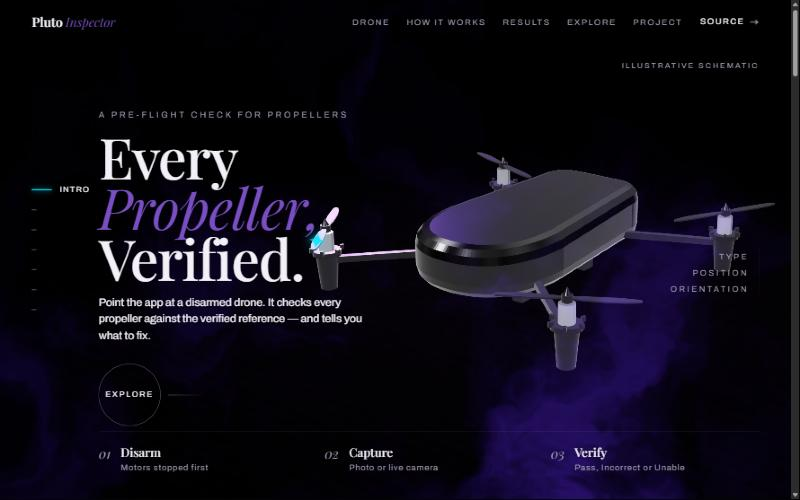
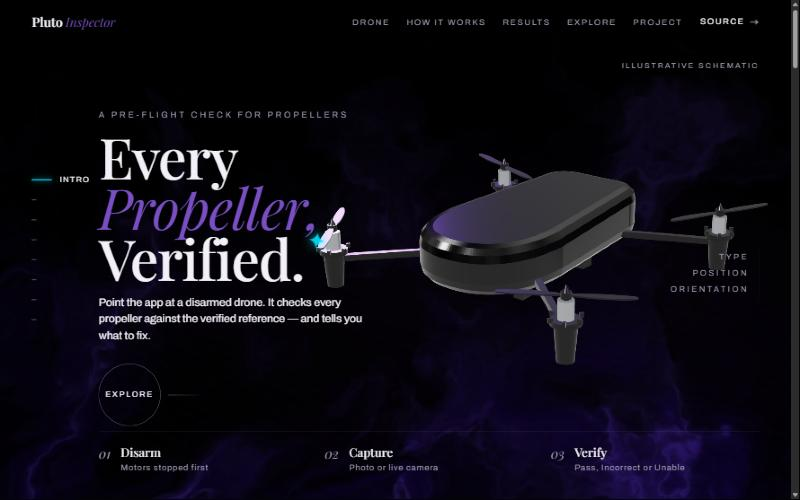
feat(website): smoke-machine fog, cigar-like strands, steerable flight scene
Shader stage fog in deep purple (domain-warped noise, thin ridged strands,
floor-weighted, clearer centre), drawn behind the drone. New labelled
"Made to fly." scene: lift-off, spinning propellers with blur discs, rotor
downwash swirling the fog, steered by mouse or arrow keys. Darker accent text.

diff --git a/apps/website/src/viewer/viewer.ts b/apps/website/src/viewer/viewer.ts
@@ -88,6 +88,14 @@ export class DroneViewer {
   private storyGroup = new THREE.Group();
   private userGroup = new THREE.Group();
   private holder = new THREE.Group();
+  /** Lifts and banks the drone for the flight illustration; the floor stays put. */
+  private flyGroup = new THREE.Group();
+  private floorGroup = new THREE.Group();
+  private shadowMat?: THREE.MeshBasicMaterial;
+  private flight = { cur: 0, goal: 0 };
+  /** Steering target for the flight illustration, -1..1 on each axis. */
+  private steer = { gx: 0, gy: 0, x: 0, y: 0, z: 0, lift: 0, prevLat: 0 };
+  private spinAngle = 0;
   private asset: DroneAsset | null = null;
   private pmrem?: THREE.PMREMGenerator;
   private envTex?: THREE.Texture;
@@ -169,7 +177,8 @@ export class DroneViewer {
     this.scene.add(this.key, this.rim, this.rim2, this.hemi);
     this.scene.add(this.storyGroup);
     this.storyGroup.add(this.userGroup);
-    this.userGroup.add(this.holder);
+    this.userGroup.add(this.flyGroup, this.floorGroup);
+    this.flyGroup.add(this.holder);
 
     const asset = await this.opts.createAsset();
     if (this.disposed) {
@@ -247,6 +256,8 @@ export class DroneViewer {
     const s = 1 / sphere.radius;
     this.holder.scale.setScalar(s);
     this.holder.position.set(-sphere.center.x * s, -sphere.center.y * s, -sphere.center.z * s);
+    this.floorGroup.position.copy(this.holder.position);
+    this.floorGroup.scale.copy(this.holder.scale);
     this.fitDistance = 1.08 / Math.sin(THREE.MathUtils.degToRad(FOV / 2));
   }
 
@@ -257,14 +268,12 @@ export class DroneViewer {
       [1, 'rgba(0,0,0,0)'],
     ]);
     this.textures.push(shadowTex);
-    const shadow = new THREE.Mesh(
-      new THREE.PlaneGeometry(1.9, 1.8),
-      new THREE.MeshBasicMaterial({ map: shadowTex, transparent: true, depthWrite: false }),
-    );
+    this.shadowMat = new THREE.MeshBasicMaterial({ map: shadowTex, transparent: true, depthWrite: false });
+    const shadow = new THREE.Mesh(new THREE.PlaneGeometry(1.9, 1.8), this.shadowMat);
     shadow.rotation.x = -Math.PI / 2;
     shadow.position.y = 0.002;
     shadow.renderOrder = -1;
-    this.asset!.root.parent!.add(shadow);
+    this.floorGroup.add(shadow);
 
     if (this.opts.ground === 'dark') {
       const poolTex = radialTexture([
@@ -280,7 +289,7 @@ export class DroneViewer {
       pool.rotation.x = -Math.PI / 2;
       pool.position.y = 0.001;
       pool.renderOrder = -2;
-      this.asset!.root.parent!.add(pool);
+      this.floorGroup.add(pool);
 
       this.addFog();
 
@@ -310,7 +319,7 @@ export class DroneViewer {
       );
       beam.position.y = 2.25;
       beam.renderOrder = -3;
-      this.asset!.root.parent!.add(beam);
+      this.floorGroup.add(beam);
     }
   }
 
@@ -324,8 +333,10 @@ export class DroneViewer {
       uniforms: {
         uTime: { value: 0 },
         uColor: { value: new THREE.Color(0x2b0b55) },
-        uStrength: { value: 3.4 },
+        uStrength: { value: 2.6 },
         uAspect: { value: 1 },
+        uHole: { value: new THREE.Vector2(0.5, 0.4) },
+        uStir: { value: 0 },
       },
       vertexShader: /* glsl */ `
         varying vec2 vUv;
@@ -338,6 +349,8 @@ export class DroneViewer {
         uniform vec3 uColor;
         uniform float uStrength;
         uniform float uAspect;
+        uniform vec2 uHole;
+        uniform float uStir;
         varying vec2 vUv;
         float hash(vec2 p) { return fract(sin(dot(p, vec2(127.1, 311.7))) * 43758.5453); }
         float noise(vec2 p) {
@@ -352,18 +365,36 @@ export class DroneViewer {
           return v;
         }
         void main() {
-          vec2 p = vec2(vUv.x * uAspect, vUv.y) * 2.0;
-          float t = uTime * 0.065;
+          // Rotor wash: smoke near the drone is pushed outward and swirled.
+          vec2 dv = (vUv - uHole) * vec2(uAspect, 1.0);
+          float rd = length(dv);
+          float infl = 0.35 * uStir * exp(-rd * rd * 6.0);
+          float ang = infl * (1.6 + 0.5 * sin(uTime * 0.8));
+          mat2 rot = mat2(cos(ang), -sin(ang), sin(ang), cos(ang));
+          vec2 dw = rot * dv + normalize(dv + 1e-4) * infl * 0.12;
+          vec2 uv = dw / vec2(uAspect, 1.0) + uHole;
+          vec2 p = vec2(uv.x * uAspect, uv.y) * 2.0;
+          float t = uTime * 0.065 * (1.0 + infl * 2.0);
           vec2 q = vec2(fbm(p + vec2(0.0, -t)), fbm(p + vec2(5.2, 1.3) - t * 0.7));
           vec2 r = vec2(fbm(p + 3.0 * q + vec2(1.7, 9.2) + t * 0.5), fbm(p + 3.0 * q + vec2(8.3, 2.8) - t * 0.4));
           float f = fbm(p + 2.6 * r + vec2(t * 0.6, -t));
           // Thickest at the floor, but a thinner haze still reaches the top of the frame.
-          float floorMask = mix(0.55, 1.0, smoothstep(1.0, 0.0, vUv.y));
+          float floorMask = mix(0.2, 1.0, smoothstep(0.9, 0.0, vUv.y));
+          // Keep the middle of the frame clearer so smoke frames the content instead of covering it.
+          floorMask *= mix(0.55, 1.0, smoothstep(0.12, 0.5, abs(vUv.x - 0.5)) + smoothstep(0.45, 0.0, vUv.y));
           float d = pow(smoothstep(0.28, 0.95, f) * floorMask, 1.3);
-          vec3 col = uColor * d * uStrength + vec3(0.32, 0.2, 0.55) * pow(d, 3.0) * 0.12 * uStrength;
+          // Cigar-like strands: thin ridged filaments, stretched upward, curling in the same flow.
+          float wisp = fbm(vec2(p.x * 1.5, p.y * 0.75) + 2.4 * r + vec2(0.0, -t * 1.6));
+          float strand = pow(1.0 - abs(2.0 * wisp - 1.0), 10.0);
+          float wispMask = mix(0.35, 1.0, smoothstep(1.0, 0.0, vUv.y)) * smoothstep(0.38, 0.7, f);
+          d = d * 0.85 + strand * wispMask * 0.35;
+          // Downwash clears a hollow under the rotors with a brighter churned rim.
+          d *= 1.0 - 0.45 * uStir * exp(-rd * rd * 26.0);
+          d += uStir * 0.18 * f * exp(-pow((rd - 0.18) * 10.0, 2.0));
+          vec3 col = uColor * d * uStrength + vec3(0.36, 0.26, 0.58) * strand * wispMask * 0.1 * uStrength;
           gl_FragColor = vec4(col, 1.0);
         }`,
-      transparent: true,
+      transparent: false,
       depthWrite: false,
       depthTest: false,
       blending: THREE.AdditiveBlending,
@@ -460,6 +491,20 @@ export class DroneViewer {
       if (Math.abs(deg) < 360) this.yaw += angle;
     } else this.turn = { from: this.yaw, start: performance.now(), dur, angle };
     this.touch();
+  }
+
+  /** Flight illustration on/off: lift-off, hover, spinning propellers and rotor wash in the fog. */
+  setFlight(on: number) {
+    this.flight.goal = on;
+    if (this.opts.reducedMotion) this.flight.cur = on;
+    this.kick();
+  }
+
+  /** Steer the flying drone toward a screen direction (-1..1, +x right, +y up). */
+  setSteer(x: number, y: number) {
+    this.steer.gx = Math.max(-1, Math.min(1, x));
+    this.steer.gy = Math.max(-1, Math.min(1, y));
+    this.kick();
   }
 
   /** Move the model within the frame (fractions of width/height; +x right, +y up). */
@@ -671,10 +716,43 @@ export class DroneViewer {
     this.storyGroup.position.y = c.lift + Math.sin(t * 0.9) * 0.008 * this.idle;
     // Key light glides slowly so reflections sweep across the gloss.
     if (!rm) this.key.position.set(Math.cos(t * 0.18) * 4.5, 5, Math.sin(t * 0.18) * 4.5);
+    // Flight illustration: lift, hover, bank, spin, rotor wash.
+    const fl = this.flight;
+    fl.cur = rm ? fl.goal : damp(fl.cur, fl.goal, 1.3, dt);
+    const k = fl.cur;
+    // Steering: follow the target across the screen plane, bank into the turn.
+    const st = this.steer;
+    const right = new THREE.Vector3(1, 0, 0).applyQuaternion(this.camera.quaternion);
+    right.y = 0;
+    right.normalize();
+    const reach = 1.15 * k;
+    const sr = rm ? 1 : 1 - Math.exp(-dt * 2.2);
+    st.x += (right.x * st.gx * reach - st.x) * sr;
+    st.z += (right.z * st.gx * reach - st.z) * sr;
+    st.lift += (st.gy * 0.5 * k - st.lift) * sr;
+    const lat = st.x * right.x + st.z * right.z;
+    const vLat = (lat - st.prevLat) / dt;
+    st.prevLat = lat;
+    this.flyGroup.position.set(st.x, k * (0.42 + (rm ? 0 : Math.sin(t * 1.2) * 0.04)) + st.lift, st.z);
+    const bank = THREE.MathUtils.clamp(-vLat * 0.18, -0.3, 0.3);
+    this.flyGroup.rotation.z = rm ? 0 : k * (Math.sin(t * 0.6) * 0.05) + bank;
+    this.flyGroup.rotation.x = rm ? 0 : k * Math.sin(t * 0.8 + 1) * 0.05;
+    if (this.asset?.setSpin) {
+      if (!rm) this.spinAngle = (this.spinAngle + dt * 32 * k * k) % (Math.PI * 2);
+      this.asset.setSpin(this.spinAngle, rm ? 0 : k);
+    }
+    if (this.shadowMat) this.shadowMat.opacity = 1 - 0.55 * k;
+
     if (this.fog) {
       const u = this.fog.material.uniforms;
       if (!rm) u.uTime.value = t;
-      u.uStrength.value = 3.4 * (this.light.env / 0.6);
+      u.uStrength.value = 2.6 * (this.light.env / 0.6) * (1 + 0.15 * k);
+      u.uStir.value = k;
+      // Rotor wash centre: just below the drone, in screen space.
+      const below = new THREE.Vector3(0, -0.55, 0);
+      this.flyGroup.localToWorld(below);
+      below.project(this.camera);
+      u.uHole.value.set(below.x * 0.5 + 0.5, below.y * 0.5 + 0.5);
     }
 
     this.asset?.setExplode?.(c.explode);

diff --git a/apps/website/src/stage.ts b/apps/website/src/stage.ts
@@ -13,14 +13,17 @@ interface Shot {
   shift: [number, number];
   /** Staged explode target for this scene (0 assembled, 1 apart). */
   apart: number;
-  /** Propeller resting angle offset (radians); motors stopped throughout. */
+  /** Propeller resting angle offset (radians). */
   rest: number;
+  /** Flight illustration (1) — only in its own labelled scene, never during inspection. */
+  flight?: number;
 }
 
 const SHOTS: Record<string, Shot> = {
   hero: { pose: { az: 34, el: 20, dist: 0.8, target: null, explode: 0, focus: null }, shift: [0.17, 0.02], apart: 0, rest: 0 },
   apart: { pose: { az: 28, el: 30, dist: 1.45, target: null, explode: 0, focus: null }, shift: [0, 0.08], apart: 1, rest: 0 },
   propeller: { pose: { az: 46, el: 24, dist: 0.36, target: 'prop0', explode: 0, focus: 'propeller' }, shift: [0.2, 0], apart: 0, rest: 1.25 },
+  flight: { pose: { az: 22, el: 12, dist: 1.25, target: null, explode: 0, focus: null }, shift: [0, -0.04], apart: 0, rest: 0, flight: 1 },
   how: { pose: { az: 120, el: 14, dist: 1.5, target: null, explode: 0, focus: null }, shift: [0.1, 0.26], apart: 0, rest: 0 },
   results: { pose: { az: 0, el: 88, dist: 1.05, target: null, explode: 0, focus: null }, shift: [0, 0], apart: 0, rest: 0 },
   explore: { pose: { az: 32, el: 26, dist: 0.8, target: null, explode: 0, focus: null }, shift: [0, 0], apart: 0, rest: 0 },
@@ -92,6 +95,8 @@ export function mountStage(reducedMotion: boolean) {
     viewer.applyPose(shot.pose);
     viewer.setShift(window.innerWidth < 960 ? 0 : shot.shift[0], shot.shift[1]);
     viewer.setRestingAngle(0, shot.rest);
+    viewer.setFlight(shot.flight ?? 0);
+    if (!shot.flight) viewer.setSteer(0, 0);
     tweenApart(shot.apart);
     updateTags();
   };
@@ -122,6 +127,27 @@ export function mountStage(reducedMotion: boolean) {
   activate('hero');
 
   window.addEventListener('resize', shoot);
+
+  // Flight scene: steer the drone with the mouse, or with the arrow keys.
+  let kx = 0;
+  let ky = 0;
+  window.addEventListener('pointermove', (e) => {
+    if (active !== 'flight' || !viewer || e.pointerType === 'touch') return;
+    viewer.setSteer((e.clientX / window.innerWidth) * 2 - 1, 1 - (e.clientY / window.innerHeight) * 2 - 0.2);
+  });
+  window.addEventListener('keydown', (e) => {
+    if (active !== 'flight' || !viewer) return;
+    const step = 0.25;
+    if (e.key === 'ArrowLeft') kx -= step;
+    else if (e.key === 'ArrowRight') kx += step;
+    else if (e.key === 'ArrowUp' && e.shiftKey) ky += step;
+    else if (e.key === 'ArrowDown' && e.shiftKey) ky -= step;
+    else return;
+    e.preventDefault();
+    kx = Math.max(-1, Math.min(1, kx));
+    ky = Math.max(-1, Math.min(1, ky));
+    viewer.setSteer(kx, ky);
+  });
 
   mountViewer(stage, {
     interactive: false,

diff --git a/apps/website/src/viewer/schematic.ts b/apps/website/src/viewer/schematic.ts
@@ -208,6 +208,18 @@ export function createSchematicDrone(): DroneAsset {
     return (t < 0.5 ? 4 * t * t * t : 1 - Math.pow(-2 * t + 2, 3) / 2) * 2.0;
   };
   const rest = [0, 0, 0, 0];
+  let spin = 0;
+  // Motion-blur discs for the flight illustration; kept out of the part groups.
+  const discMat = new THREE.MeshBasicMaterial({ color: 0xb8b2c8, transparent: true, opacity: 0, depthWrite: false, side: THREE.DoubleSide });
+  const discGeo = new THREE.RingGeometry(0.03, 0.272, 48);
+  discGeo.rotateX(-Math.PI / 2);
+  const discs = TIPS.map(([tx, tz]) => {
+    const d = new THREE.Mesh(discGeo, discMat);
+    d.position.set(tx, 0.272, tz);
+    d.visible = false;
+    root.add(d);
+    return d;
+  });
   const DELAY: Record<PartKind, number> = { body: 0, arm: 0.14, motor: 0.3, propeller: 0.46 };
   const SPAN = 0.52;
   const local = (k: PartKind) => Math.min(1, Math.max(0, (assembly - DELAY[k]) / SPAN));
@@ -219,7 +231,7 @@ export function createSchematicDrone(): DroneAsset {
       mv.obj.rotation.x = mv.tilt * away;
       mv.obj.visible = local(mv.kind) > 0 || assembly >= 1;
     }
-    props.forEach((p, i) => (p.rotation.y = REST[i] + rest[i]));
+    props.forEach((p, i) => (p.rotation.y = REST[i] + rest[i] + spin));
   };
 
   root.traverse((o) => {
@@ -249,6 +261,12 @@ export function createSchematicDrone(): DroneAsset {
       apply();
       return (Object.keys(DELAY) as PartKind[]).filter((k) => local(k) >= 1);
     },
+    setSpin(radians: number, blur: number) {
+      spin = radians;
+      discMat.opacity = 0.16 * blur;
+      discs.forEach((d) => (d.visible = blur > 0.01));
+      apply();
+    },
     setRestingAngle(index: number, radians: number) {
       rest[index] = radians;
       apply();
@@ -260,6 +278,7 @@ export function createSchematicDrone(): DroneAsset {
         if (me.isMesh) geos.add(me.geometry);
       });
       geos.forEach((g) => g.dispose());
+      discMat.dispose();
       Object.values(m).forEach((mat) => mat.dispose());
     },
   };

diff --git a/apps/website/index.html b/apps/website/index.html
@@ -89,6 +89,7 @@
       <a href="#hero"><span>Intro</span></a>
       <a href="#apart"><span>Drone</span></a>
       <a href="#propeller"><span>Propeller</span></a>
+      <a href="#flight"><span>Flight</span></a>
       <a href="#how"><span>How</span></a>
       <a href="#results"><span>Results</span></a>
       <a href="#explore"><span>Explore</span></a>
@@ -134,6 +135,16 @@
             <li>Unclear photo → <em>Unable to Verify</em></li>
           </ul>
           <p data-in>Where a blade comes to rest is never an error. What one photo cannot show is never guessed.</p>
+        </div>
+      </section>
+
+      <!-- 3b. Flight (illustration only) -->
+      <section class="scene scene--flight" id="flight" data-scene="flight" aria-labelledby="flight-title">
+        <div class="scene__copy scene__copy--bottom">
+          <h2 id="flight-title" class="title" data-in>Made to <em>fly.</em></h2>
+          <p data-in>Checked on the ground first — every inspection happens disarmed, motors stopped.</p>
+          <p class="flight__hint" data-in>Move your mouse to steer · ← → keys, Shift + ↑ ↓ for height</p>
+          <p class="flight__note" data-in>Flight shown for illustration only</p>
         </div>
       </section>
 

diff --git a/apps/website/src/viewer/types.ts b/apps/website/src/viewer/types.ts
@@ -33,6 +33,8 @@ export interface DroneAsset {
   setExplodeStaged?(progress: number): void;
   /** Present only when the asset can play an assembly sequence. 0 = scattered, 1 = assembled. Returns groups that have landed. */
   setAssembly?(progress: number): PartKind[];
+  /** Flight illustration only: spin all propellers to this angle (radians) and show blur discs (0..1). */
+  setSpin?(radians: number, blur: number): void;
   /** Rotates one propeller to a resting angle (motors stopped; used to show that resting angle is not an error). */
   setRestingAngle?(index: number, radians: number): void;
   dispose(): void;

diff --git a/apps/website/src/styles.css b/apps/website/src/styles.css
@@ -593,6 +593,20 @@ main {
   margin-top: 18px;
   font-size: clamp(1.15rem, 0.5vw + 1rem, 1.4rem);
 }
+.flight__hint {
+  font-size: 1rem !important;
+  color: var(--ink);
+  opacity: 0.8;
+}
+html[data-scene='flight'] {
+  cursor: crosshair;
+}
+.flight__note {
+  font-size: 0.85rem !important;
+  letter-spacing: 0.24em;
+  text-transform: uppercase;
+  color: var(--muted);
+}
 .scene__copy--left {
   align-self: center;
   max-width: 34rem;

diff --git a/docs/website/CHECKS.md b/docs/website/CHECKS.md
@@ -38,9 +38,12 @@ What the tests cover: exact result labels; no Pass with any missing evidence or 
 
 - Same commands re-run after the redesign: `npm run check` passes (tsc 0 errors, vitest 8/8, vite build).
 - Desktop 1440×900: all seven scenes visited. The intro assembles, then copy appears. Taken apart separates with labels. The propeller close-up shows the resting-angle label. Results and the demo render, Explore renders after the CSS fix, and Project renders. No console errors. With the fixed canvas and snap sections, page height is 7 viewports (≈6375 px at 900 px tall).
+- Fog: the shader compiled after fixing a variable-name clash (an earlier build drew no fog). It is drawn in the opaque pass before the drone, so the drone stays solid in front of it.
+- Flight scene: with real mouse hovers the drone moved left/up toward the cursor and back right, banking into turns; the propellers spin with blur discs and the fog swirls under the rotors. Arrow-key steering is coded but was not exercised in the browser.
 - Not re-checked after the redesign: mobile layout, keyboard pass through every scene, reduced motion.
 
 ## Screenshots (captured)
 
-- `screenshots/desktop-1440-hero-fog.jpg`: final intro with purple stage fog.
+- `screenshots/desktop-1440-hero-fog.jpg`: final intro with dark-purple stage fog.
+- `screenshots/desktop-1440-flight-steering.jpg`: the flight scene while steering with the mouse (bank angle was softened after this capture).
 - `screenshots/desktop-1440-taken-apart-earlier-lighting.jpg`, `...-propeller-earlier-lighting.jpg`, `...-results-earlier-lighting.jpg`: same scenes, captured before the lighting was darkened.

diff --git a/docs/handoffs/frontend-web.md b/docs/handoffs/frontend-web.md
@@ -8,7 +8,7 @@ Contract: v1.0.0 (read-only consumer of `contracts/verification-result.schema.js
 
 ## Completed
 
-Latest structure (supersedes the long-scroll description below where they differ): seven full-screen snap scenes over one persistent 3D stage (src/stage.ts), Apple-style dark theme with serif headlines, shader stage fog in deep purple, dip-to-black scene transitions. Content was cut to one screen per topic; the APK line was removed from the hero at the owner's request (resources still state that downloads will be linked when released).
+Latest structure (supersedes the long-scroll description below where they differ): seven full-screen snap scenes over one persistent 3D stage (src/stage.ts), Apple-style dark theme with serif headlines, shader stage fog in deep purple, dip-to-black scene transitions. Content was cut to one screen per topic. A separate "Made to fly." scene (owner request) shows the drone lifting off with spinning propellers and blur discs, steered by mouse or arrow keys, with rotor downwash swirling the fog. It is labelled "Flight shown for illustration only" and states that inspection happens disarmed with motors stopped; it is never part of the inspection story; the APK line was removed from the hero at the owner's request (resources still state that downloads will be linked when released).
 
 
 A responsive one-page overview in `apps/website/` (Vite 6 + TypeScript + three.js 0.170, no framework):
